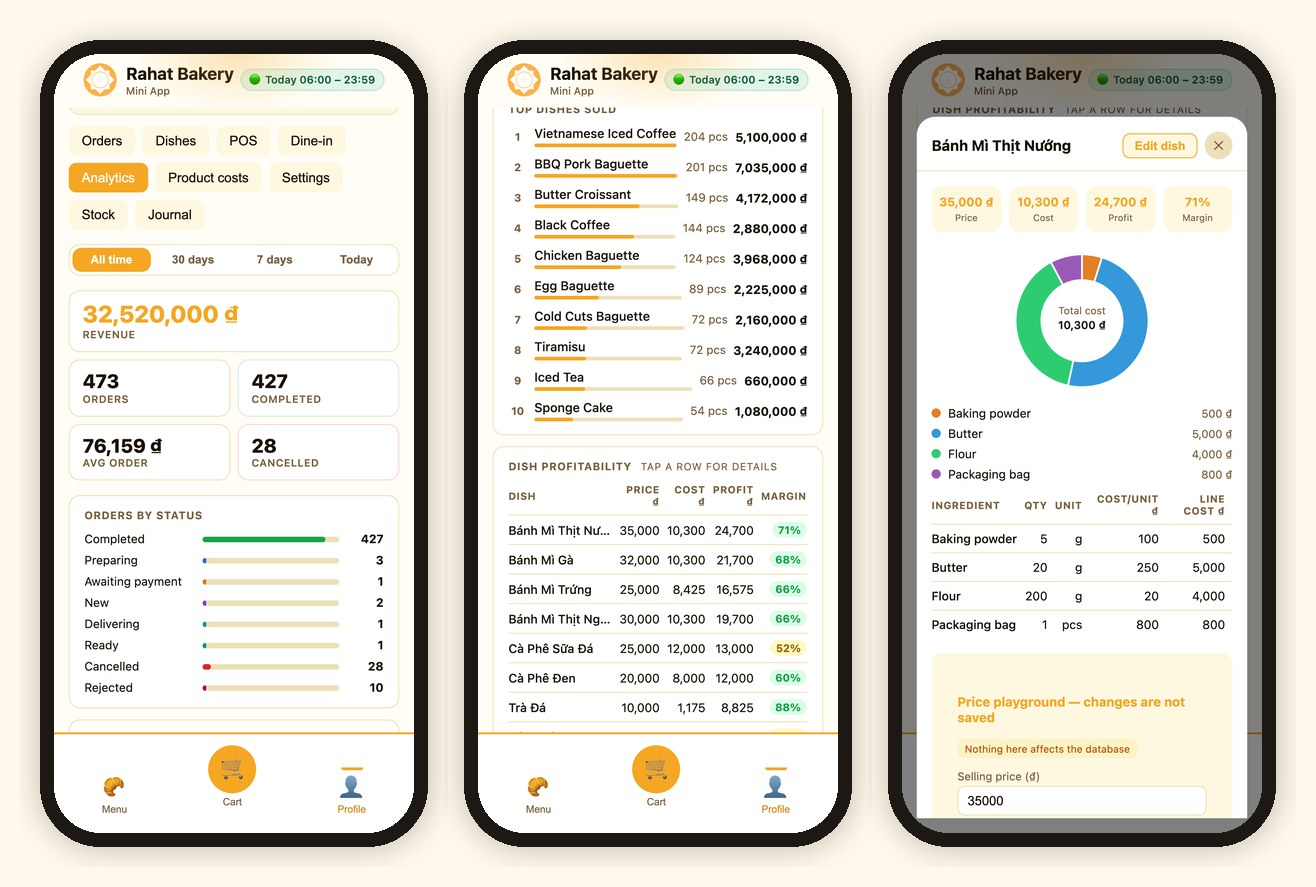
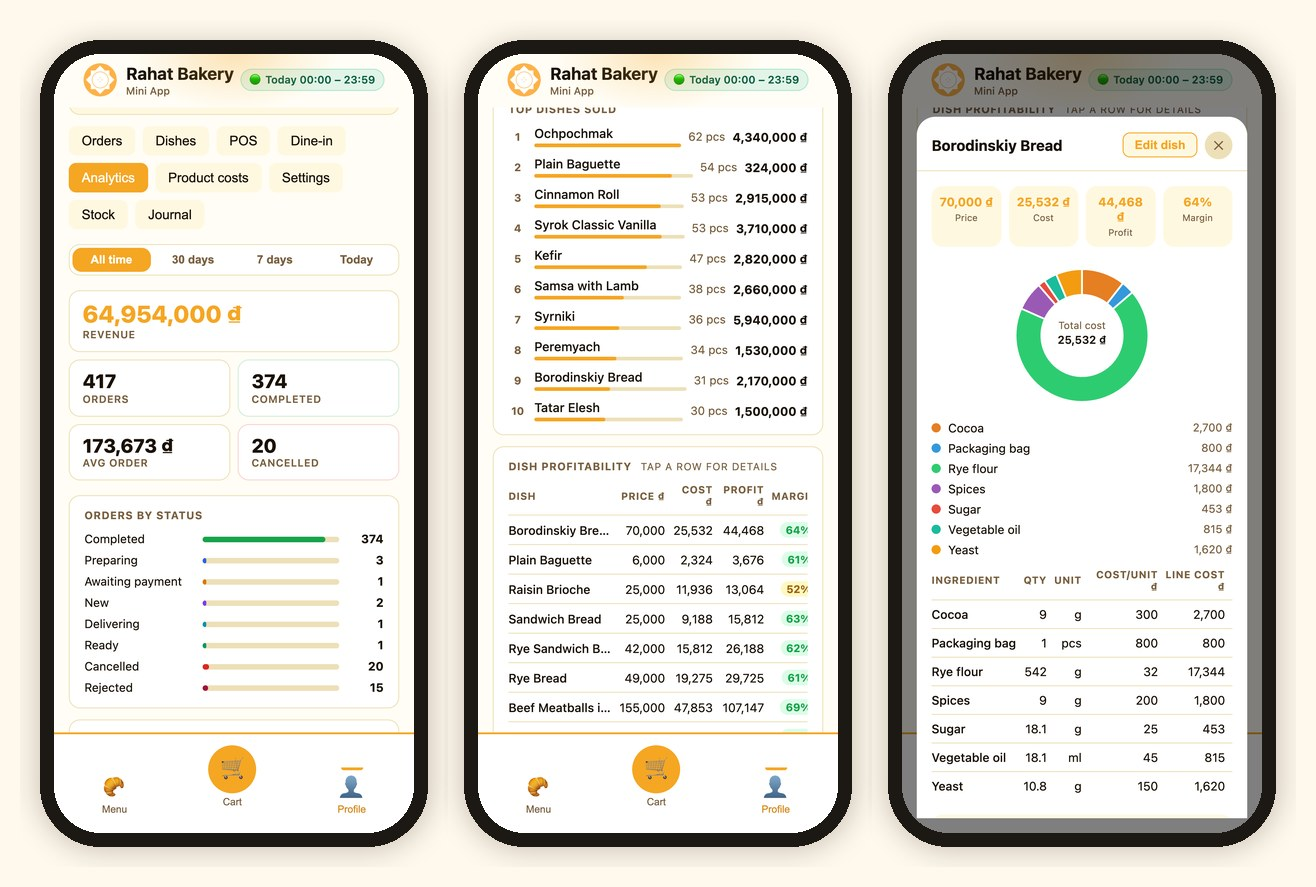
Use the real menu and product photos in screenshots

diff --git a/README.md b/README.md
@@ -4,7 +4,7 @@
 
 **Rahat Go** is a Telegram Mini App and bot that runs a small bakery end to end. Customers browse the menu, order for pickup or delivery and pay by QR without leaving Telegram. Staff use the same app as a CRM to process orders, sell walk-ins, manage the menu, track stock and see what every dish earns.
 
-I built it for a friend's bakery in Da Nang, Vietnam, and shaped every feature around how his team actually works. The staff used it for **3+ months** to run orders, inventory and daily stock.
+I built it for a friend's bakery in Da Nang, Vietnam, which makes Russian and Tatar home-style baking (ochpochmak, syrniki, rye breads, cottage-cheese desserts), and shaped every feature around how his team actually works. The staff used it for **3+ months** to run orders, inventory and daily stock.
 
 > **The source code is private.** This repository is a showcase: what the app does, how it's built, and how I built it with an AI-agentic workflow. A live demo is available on request: [t.me/Licman](https://t.me/Licman).
 
@@ -160,7 +160,7 @@ My job was the part AI can't do alone: talking to the owner and turning his day 
 
 ## About the screenshots
 
-The screenshots come from a local copy of the app running in a browser with **generated demo data**: about five weeks of orders, stock and recipes with realistic Vietnamese prices. No real customer data is shown. Product photos are placeholders ("Coming soon").
+The screenshots come from a local copy of the app running in a browser. **The menu and photos are real**: the bakery's 56 dishes with their actual prices. **Orders, stock and recipe costs are generated** (about five weeks of activity with realistic Da Nang ingredient prices), so no real customer or sales data is shown.
 
 ---
 
